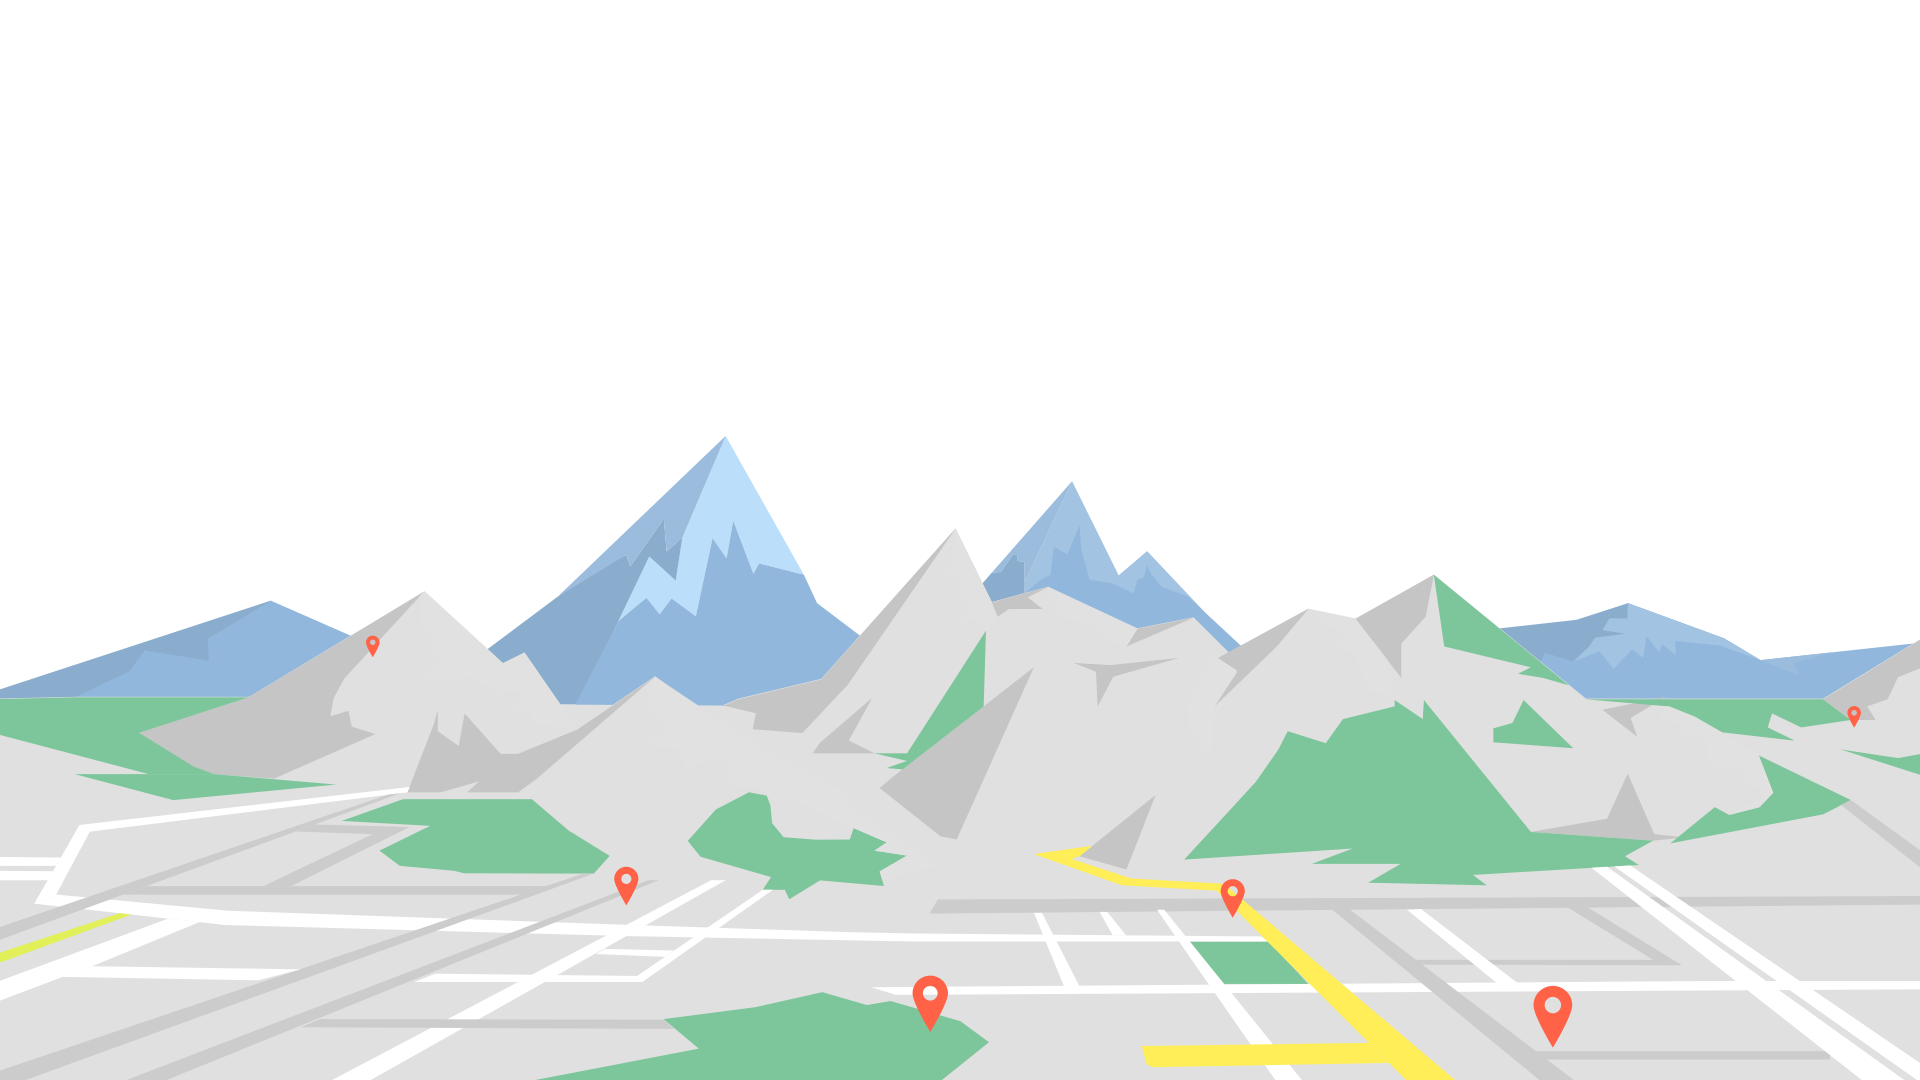
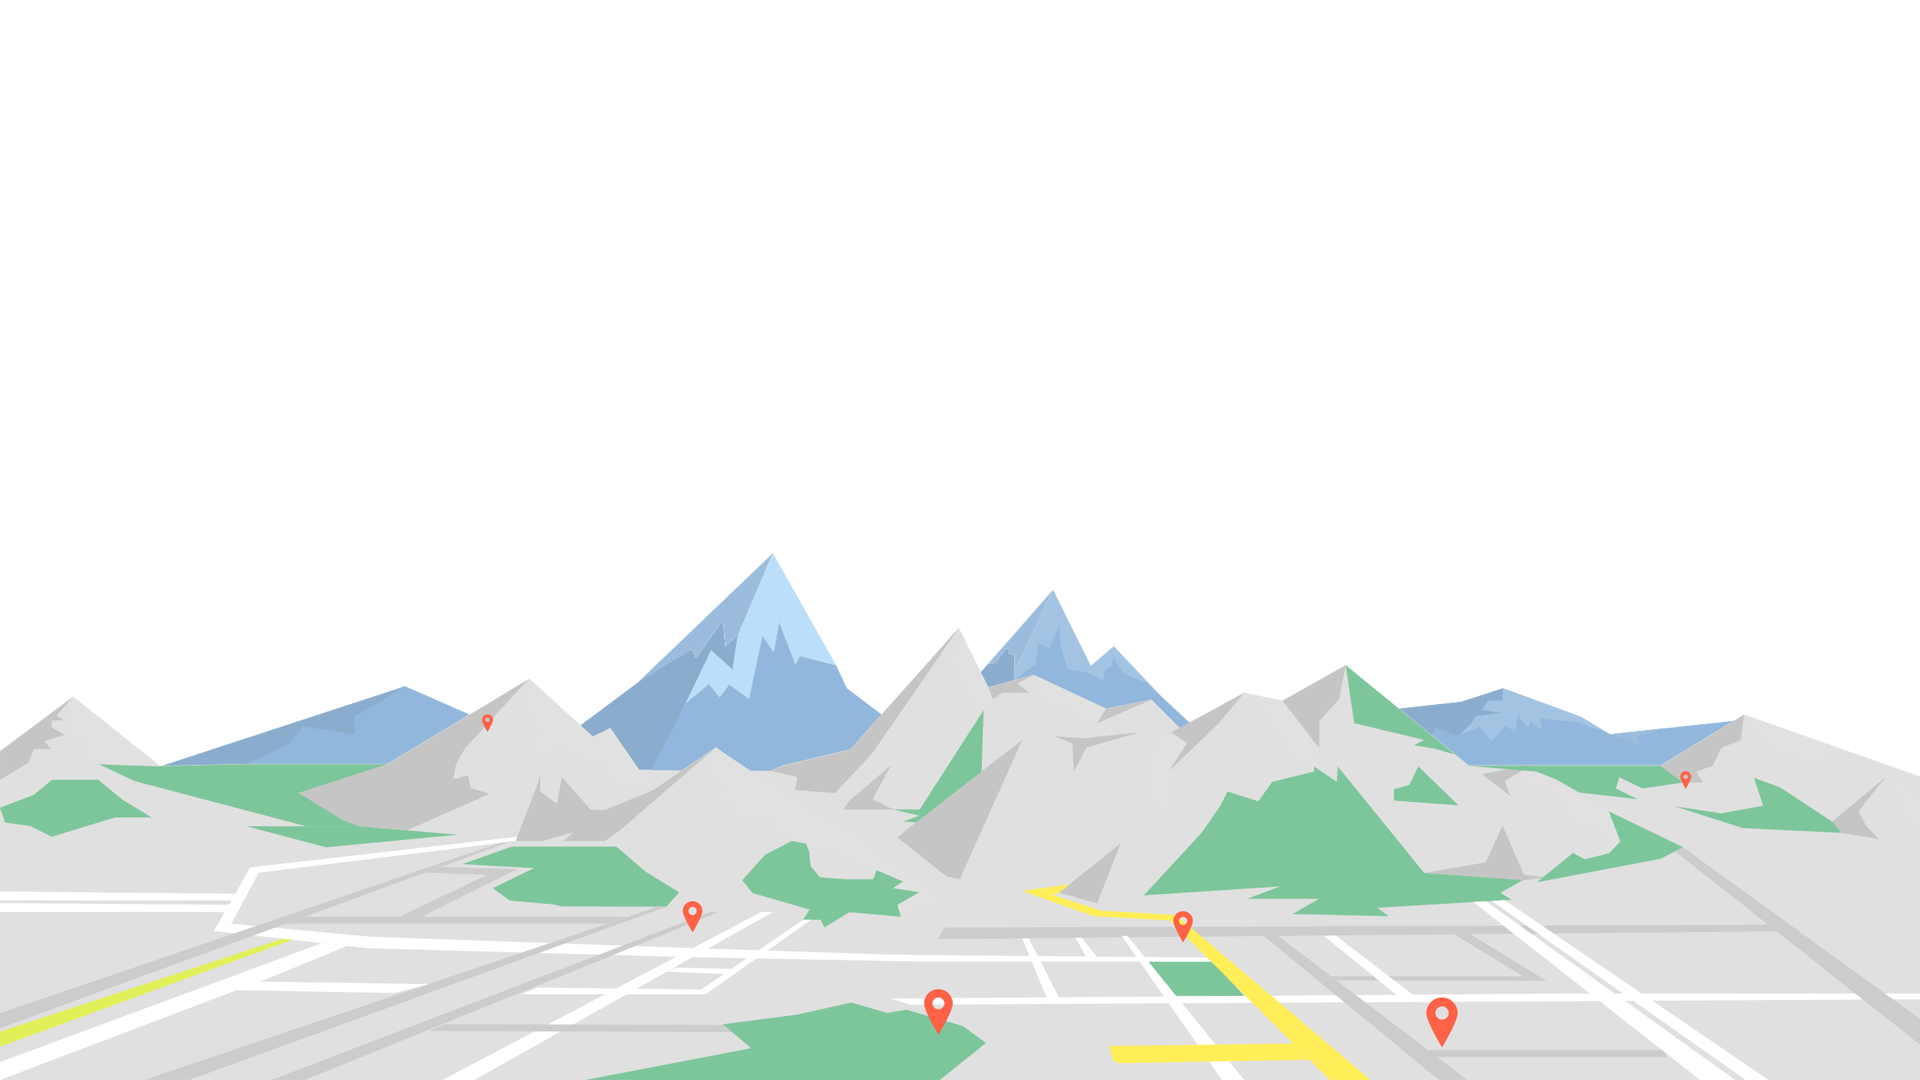
Révision du home

Changed region(s): [[0.0, 0.3972, 1.0, 1.0]]

diff --git a/home/index.html b/home/index.html
@@ -1,17 +1,28 @@
 <!DOCTYPE html>
 <html>
-<head>
-	<meta charset="utf-8">
-    <meta http-equiv="X-UA-Compatible" content="IE=edge">
-    <meta name="viewport" content="width=device-width, initial-scale=1">
-	<title>Ville de Saint-Denis</title>
-	<link rel="stylesheet" type="text/css" href="https://fonts.googleapis.com/css?family=Source+Sans+Pro" rel="stylesheet">
-	<link rel="stylesheet" href="https://maxcdn.bootstrapcdn.com/bootstrap/3.3.7/css/bootstrap.min.css" integrity="sha384-BVYiiSIFeK1dGmJRAkycuHAHRg32OmUcww7on3RYdg4Va+PmSTsz/K68vbdEjh4u" crossorigin="anonymous">
-	<link rel="stylesheet" href="https://maxcdn.bootstrapcdn.com/bootstrap/3.3.7/css/bootstrap-theme.min.css" integrity="sha384-rHyoN1iRsVXV4nD0JutlnGaslCJuC7uwjduW9SVrLvRYooPp2bWYgmgJQIXwl/Sp" crossorigin="anonymous">
-	<script src="https://maxcdn.bootstrapcdn.com/bootstrap/3.3.7/js/bootstrap.min.js" integrity="sha384-Tc5IQib027qvyjSMfHjOMaLkfuWVxZxUPnCJA7l2mCWNIpG9mGCD8wGNIcPD7Txa" crossorigin="anonymous"></script>
+	<head>
+		<title>Ville de Saint-Denis</title>
+		<meta charset="utf-8">
+	    <meta http-equiv="X-UA-Compatible" content="IE=edge">
+	    <meta name="viewport" content="width=device-width, initial-scale=1">
 
-	<link rel="stylesheet" type="text/css" href="css/style.css">
-</head>
-<body>
-</body>
+		<link href="https://fonts.googleapis.com/css?family=Source+Sans+Pro:200,300,400,600,700,900" rel="stylesheet">
+		<link rel="stylesheet" type="text/css" href="css/style.css">
+	</head>
+	
+	<body>
+
+		<header class="header">
+			<div class="container">
+				<div class="header-baseline">
+					<div class="header-baseline-main">Découvrez la ville de Saint-Denis <br> sous un autre angle.</div>
+					<p><a class="baseline-button" href="">Allons-y !</a></p>
+				</div>
+			</div>
+		</header>
+
+		<script src="https://ajax.googleapis.com/ajax/libs/jquery/1.11.3/jquery.min.js"></script>
+		<script src="https://maxcdn.bootstrapcdn.com/bootstrap/3.3.7/js/bootstrap.min.js" integrity="sha384-Tc5IQib027qvyjSMfHjOMaLkfuWVxZxUPnCJA7l2mCWNIpG9mGCD8wGNIcPD7Txa" crossorigin="anonymous"></script>
+
+	</body>
 </html>

diff --git a/home/css/style.css b/home/css/style.css
@@ -1,1 +1,56 @@
-h1 {color: blue;}
+body {
+	font-family: "Source Sans Pro", sans-serif;
+	margin: 0;
+	padding: 0;
+}
+
+a {
+	text-decoration: none !important;
+	color: inherit;
+
+	transition: 0.3s ease-in-out;
+	-webkit-transition: 0.3s ease-in-out;
+	-moz-transition: 0.3s ease-in-out;
+	-o-transition: 0.3s ease-in-out;
+	-ms-transition: 0.3s ease-in-out;
+}
+
+.header {
+	height: 100vh;
+	background: #4395D5 url(../images/fond_header.png) bottom no-repeat;
+	background-size: cover;
+	-webkit-background-size: cover;
+	-moz-background-size: cover;
+	-o-background-size: cover;
+
+	overflow: hidden;
+}
+
+.header-baseline {
+	margin-top: 125px;
+	text-align: center;
+}
+
+.header-baseline-main {
+	color: #fff;
+	font-size: 45px;
+	font-weight: 400;
+	line-height: 1.2;
+	margin-bottom: 40px;
+}
+
+.baseline-button {
+	border-radius: 3px;
+	color: #fff;
+	text-transform: uppercase;
+	font-weight: 600;
+	padding: 12px 30px;
+	background: #4FD38A;
+	border: none;
+	box-shadow: 0 1px 3px rgba(0,0,0,0.12), 0 1px 2px rgba(0,0,0,0.08);
+}
+
+.baseline-button:hover {
+	background: #4aca83;
+	border: none;
+}
